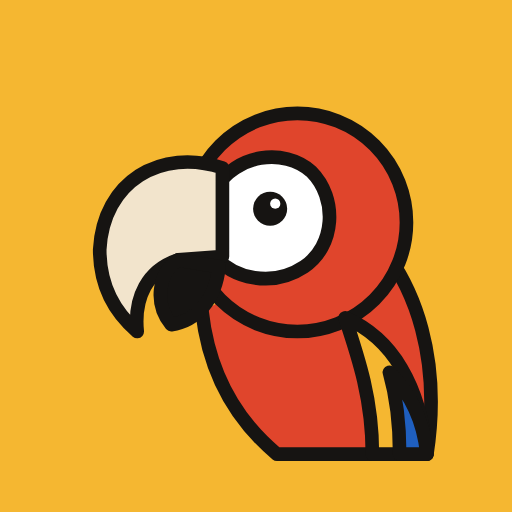
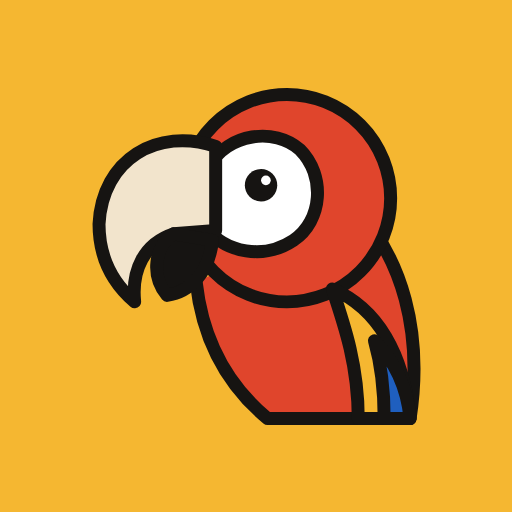
Iconos: guacamaya centrada según su forma real, con margen
Claude-Session: https://claude.ai/code/session_01CPwrpcEC1uajF2oFEeHXSa

Changed region(s): [[0.1562, 0.1562, 0.875, 0.9062]]

diff --git a/tools/make_icons.py b/tools/make_icons.py
@@ -17,31 +17,49 @@ ANDROID = RAIZ / "app/android_icons"
 
 # (archivo, tamaño, % del lado que ocupa la guacamaya, esquinas redondeadas)
 SALIDAS = [
-    (WEB / "Icon-192.png", 192, 0.84, True),
-    (WEB / "Icon-512.png", 512, 0.84, True),
-    (WEB / "Icon-maskable-192.png", 192, 0.64, False),
-    (WEB / "Icon-maskable-512.png", 512, 0.64, False),
-    (WEB / "apple-touch-icon.png", 180, 0.80, False),
-    (WEB / "favicon.png", 64, 0.92, True),
-    (ANDROID / "play-store-512.png", 512, 0.80, False),
+    (WEB / "Icon-192.png", 192, 0.70, True),
+    (WEB / "Icon-512.png", 512, 0.70, True),
+    (WEB / "Icon-maskable-192.png", 192, 0.56, False),
+    (WEB / "Icon-maskable-512.png", 512, 0.56, False),
+    (WEB / "apple-touch-icon.png", 180, 0.68, False),
+    (WEB / "favicon.png", 64, 0.82, True),
+    (ANDROID / "play-store-512.png", 512, 0.66, False),
 ]
 for carpeta, lado in [("mdpi", 48), ("hdpi", 72), ("xhdpi", 96), ("xxhdpi", 144), ("xxxhdpi", 192)]:
-    SALIDAS.append((ANDROID / f"mipmap-{carpeta}/ic_launcher.png", lado, 0.80, True))
+    SALIDAS.append((ANDROID / f"mipmap-{carpeta}/ic_launcher.png", lado, 0.66, True))
+
+
+VISTA = "0 0 120 120"  # se recalcula con la caja real del dibujo (centrado óptico)
 
 
 def html(lado, escala, redondo):
     radio = f"{int(lado * 0.22)}px" if redondo else "0"
     m = int(lado * escala)
+    svg = re.sub(r'viewBox="[^"]*"', f'viewBox="{VISTA}"', SVG, count=1)
     return (f"<html><body style='margin:0;background:transparent'>"
             f"<div style='width:{lado}px;height:{lado}px;background:{AMARILLO};border-radius:{radio};"
             f"display:grid;place-items:center'>"
-            f"<div style='width:{m}px;height:{m}px'>{SVG.replace('<svg ', f'<svg width=\"{m}\" height=\"{m}\" ', 1)}</div>"
+            f"<div style='width:{m}px;height:{m}px'>{svg.replace('<svg ', f'<svg width=\"{m}\" height=\"{m}\" ', 1)}</div>"
             f"</div></body></html>")
+
+
+async def medir(b):
+    """Caja real del dibujo (incluye el contorno) para centrarlo de verdad."""
+    global VISTA
+    pg = await b.new_page()
+    await pg.set_content(f"<html><body>{SVG}</body></html>")
+    x, y, w, h = await pg.evaluate("""() => { const g = document.querySelector('svg');
+        const r = g.getBBox(); return [r.x - 2, r.y - 2, r.width + 4, r.height + 4]; }""")
+    lado = max(w, h)
+    VISTA = f"{x - (lado - w) / 2:.1f} {y - (lado - h) / 2:.1f} {lado:.1f} {lado:.1f}"
+    print("caja del dibujo:", VISTA)
+    await pg.close()
 
 
 async def main():
     async with async_playwright() as p:
         b = await p.chromium.launch()
+        await medir(b)
         for ruta, lado, escala, redondo in SALIDAS:
             ruta.parent.mkdir(parents=True, exist_ok=True)
             pg = await b.new_page(viewport={"width": lado, "height": lado})
